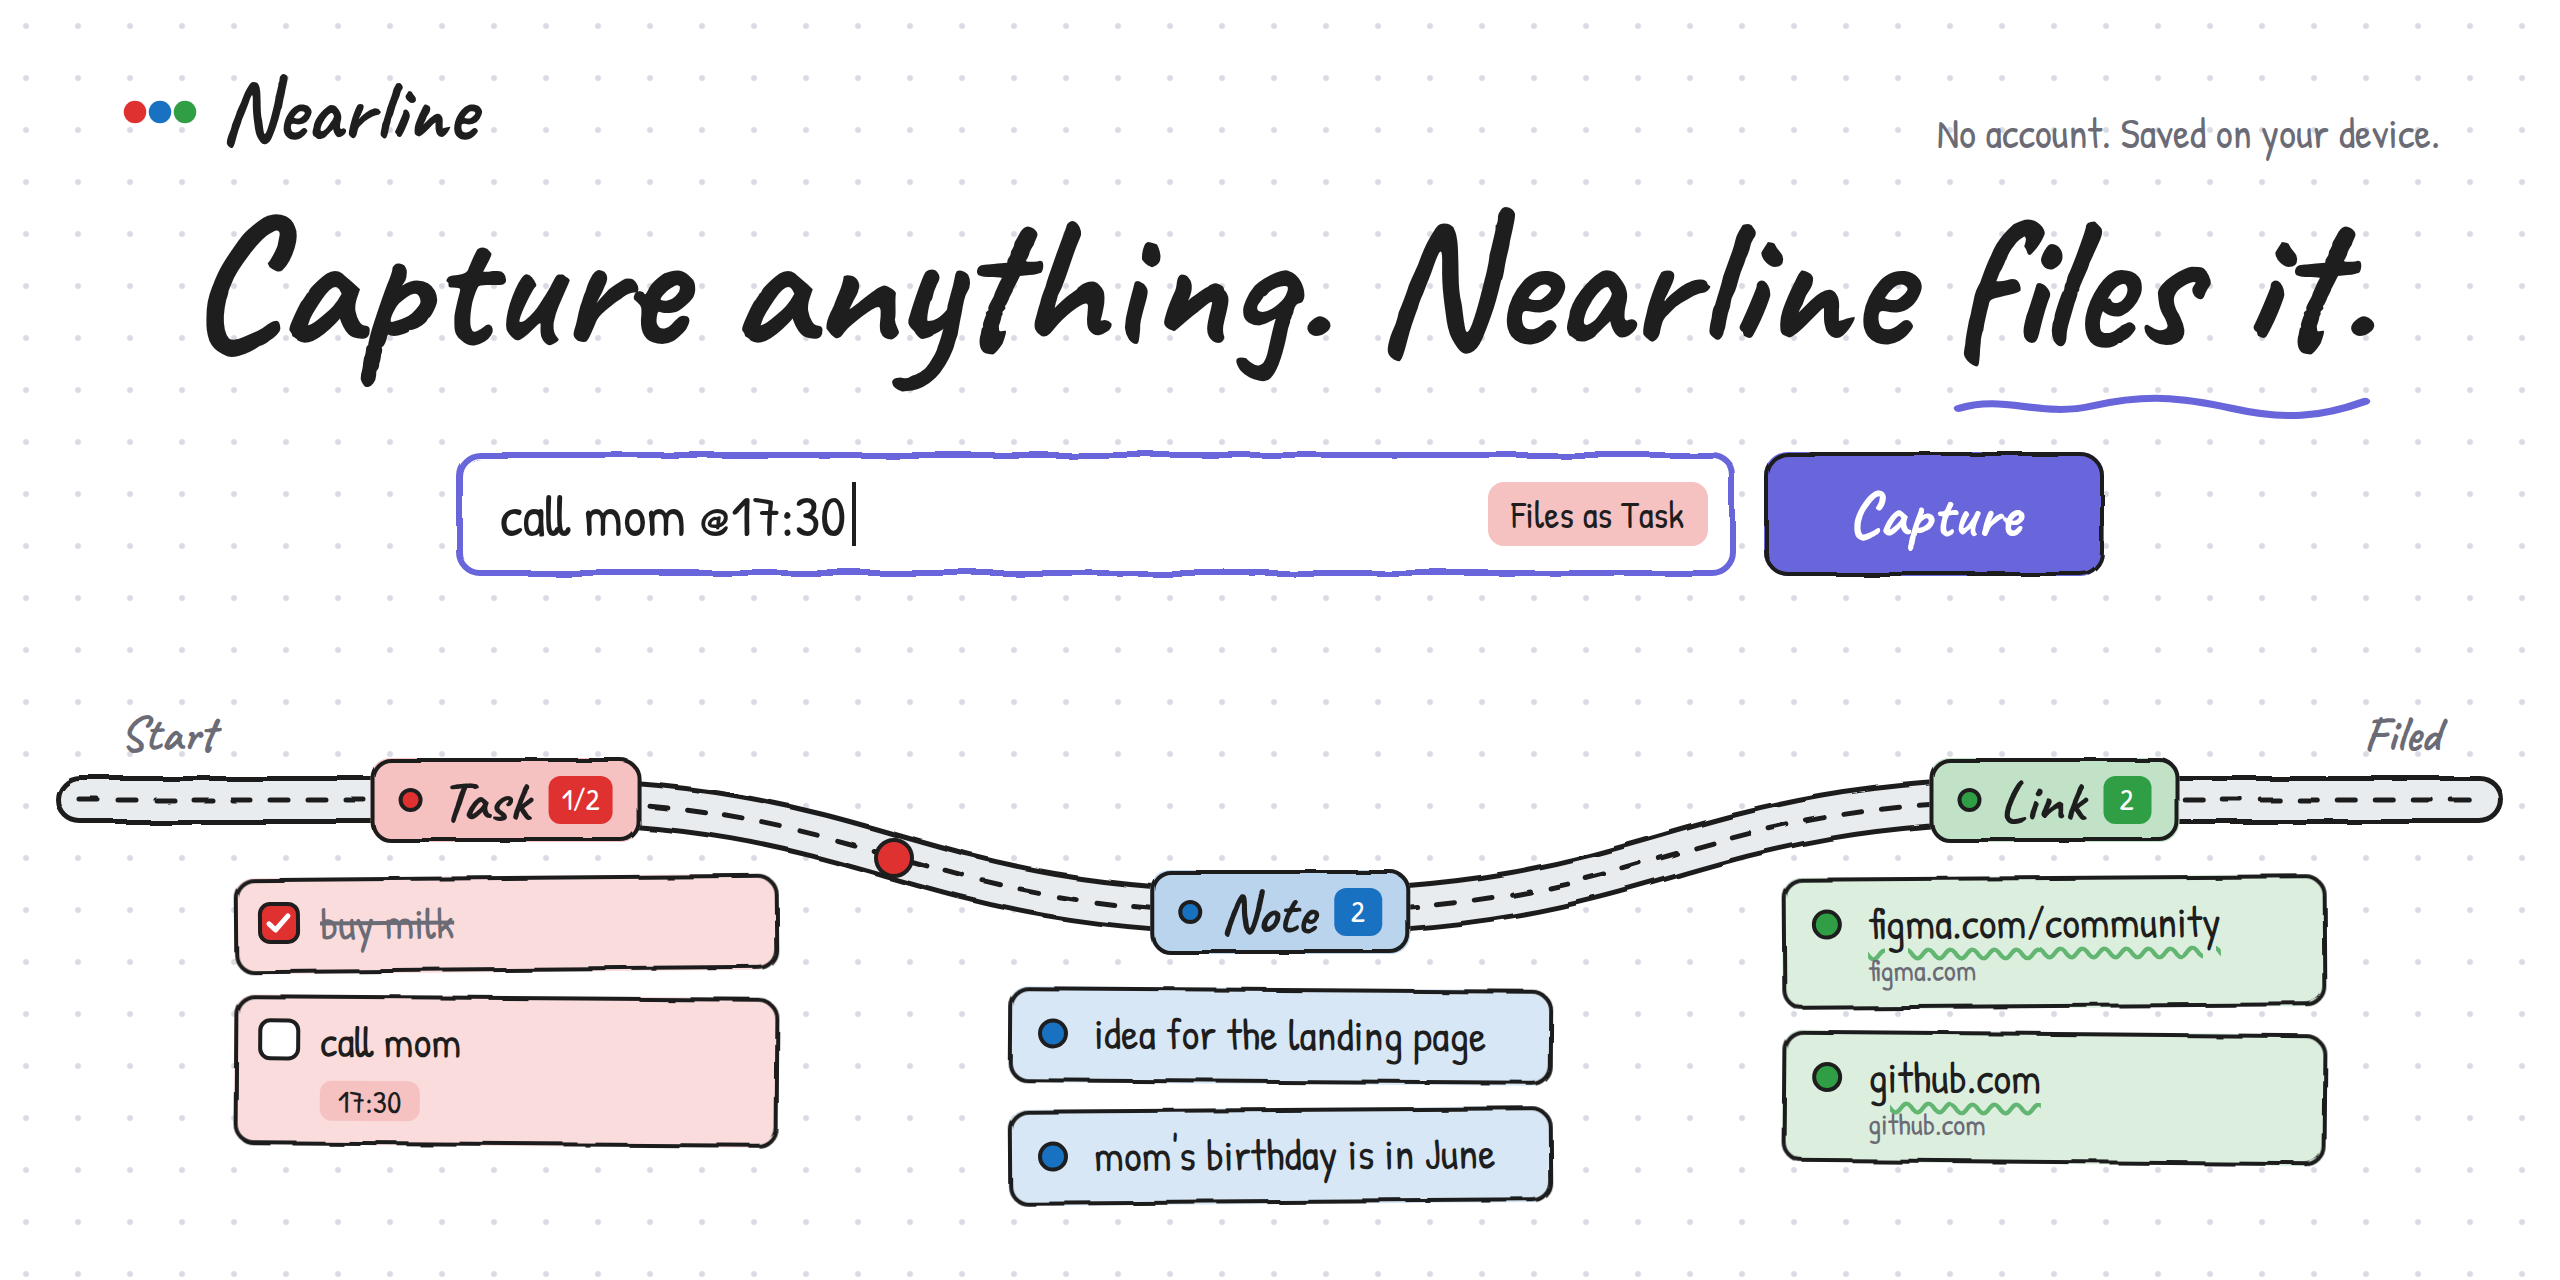
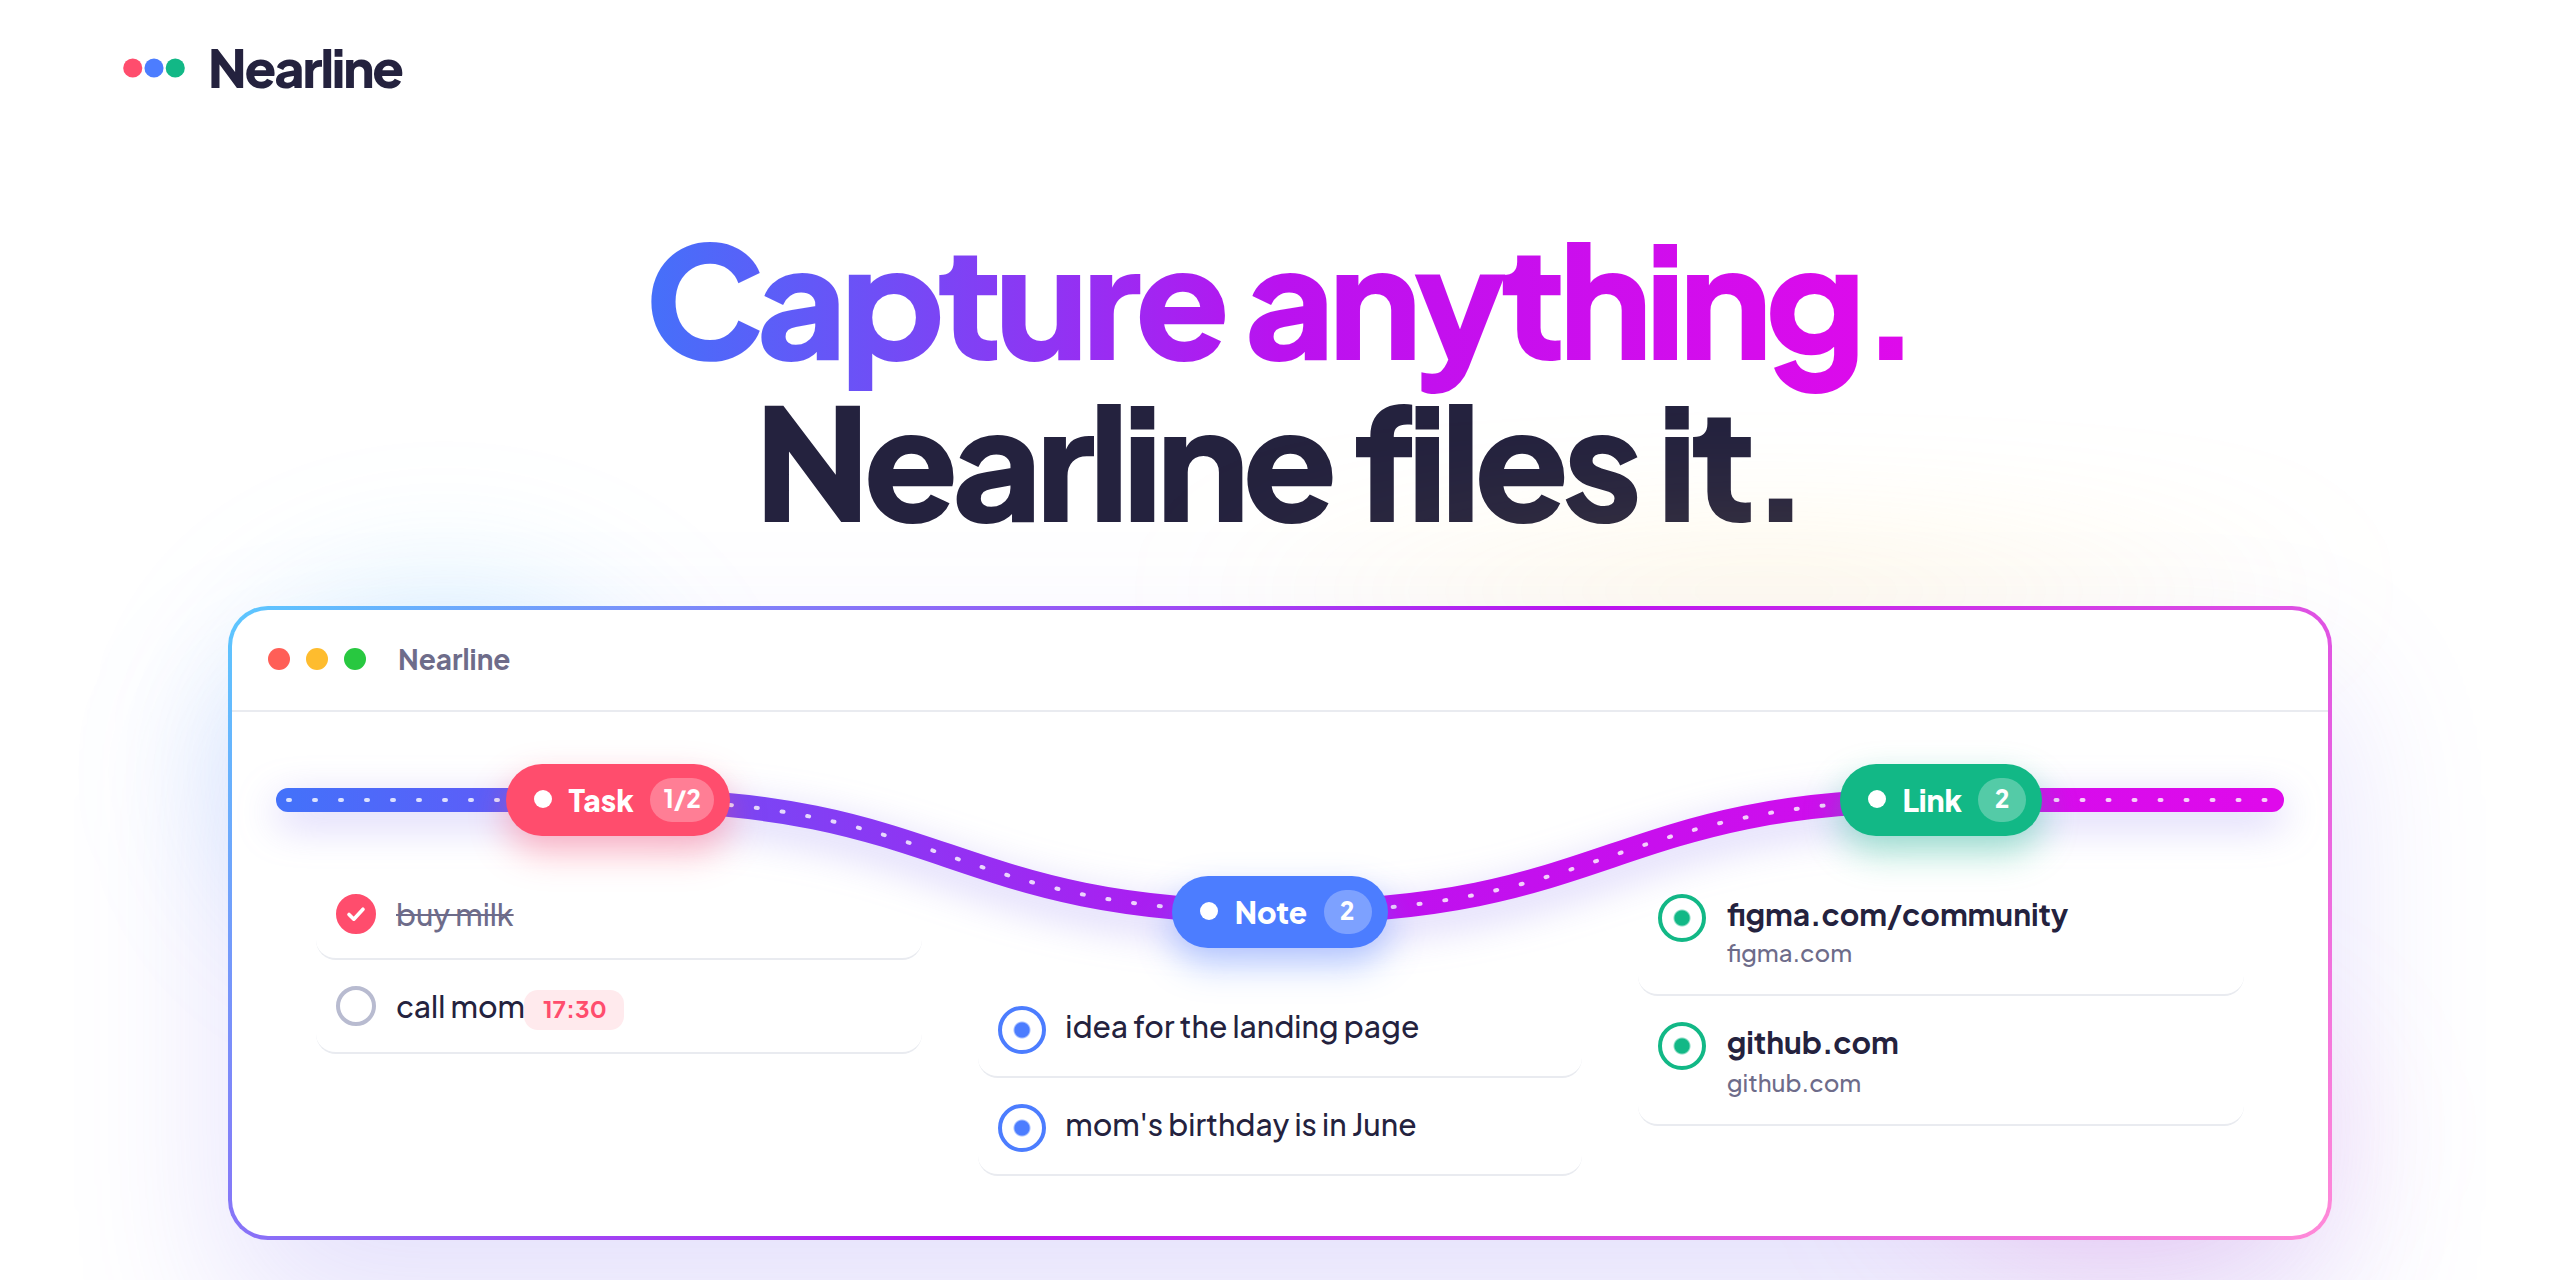
update readme file

diff --git a/README.md b/README.md
@@ -8,7 +8,7 @@
 </p>
 
 <p align="center">
-  <a href="https://YOUR-USERNAME.github.io/nearline/"><b>Live demo</b></a> ·
+  <a href="https://wissamn19.github.io/Nearline/"><b>Live demo</b></a> ·
   <a href="#quick-start">Quick start</a> ·
   <a href="#roadmap">Roadmap</a>
 </p>
@@ -58,11 +58,11 @@ You can get in and back to what you were doing in a few seconds, without touchin
 - **A roadmap, not a list.** A winding road connects the three stops, and every new entry drives along it to its stop.
 - **Private by design.** No account, no server. Everything is saved in your browser.
 - **Accessible details.** Keyboard-friendly controls, visible focus states, reduced-motion support, and a dark theme that follows your system.
-- **Hand-drawn look,** inspired by Excalidraw.
+- **A bold, colorful design** inspired by ClickUp, with light and dark themes.
 
 ## Demo
 
-**Try it:** [wissamn19.github.io/nearline](https://wissamn19.github.io/nearline/)
+**Try it:** [YOUR-USERNAME.github.io/nearline](https://YOUR-USERNAME.github.io/nearline/)
 
 <!-- Add a short screen recording here, for example:
 ![Nearline in action](docs/demo.gif)
@@ -140,8 +140,7 @@ Every entry is stored as a small object:
 nearline/
 ├── index.html      Landing page with a live demo of the sorting
 ├── app.html        The app: capture bar, roadmap, reminders
-├── style.css       Design tokens, layout, hand-drawn styling, dark theme
-├── site.css        Styles for the landing page
+├── style.css       Design tokens and styles for the landing page and the app
 ├── script.js       App logic: sorting, rendering, storage, reminders, export
 ├── landing.js      Live "try it" demo on the landing page
 ├── classifier.js   Featurizer and prediction, matching the Python one
@@ -155,13 +154,13 @@ nearline/
 
 ### Built with
 
-HTML, CSS (custom properties, grid, `color-mix`), and plain JavaScript. It uses SVG paths and filters, the Web Animations API, `localStorage`, and the Notification API. There are no frameworks, libraries or build tools.
+HTML, CSS (custom properties, grid, `color-mix`), and plain JavaScript. It uses SVG paths, the Web Animations API, `localStorage`, and the Notification API. There are no frameworks, libraries or build tools.
 
 It targets current versions of Chrome, Edge, Firefox and Safari.
 
 ## Privacy
 
-Nearline has no accounts, no analytics, and no server. Your entries are saved in your browser's `localStorage` on your device and are never sent anywhere. The only network request the page makes is for the two fonts from Google Fonts.
+Nearline has no accounts, no analytics, and no server. Your entries are saved in your browser's `localStorage` on your device and are never sent anywhere. The only network request the page makes is for the font from Google Fonts.
 
 Clearing your browser's site data for the page deletes your entries.
 
@@ -201,8 +200,8 @@ Contributions are welcome. For anything bigger than a small fix, please open an 
 
 ## Credits
 
-- Visual style inspired by [Excalidraw](https://github.com/excalidraw/excalidraw)
-- Fonts: [Caveat](https://fonts.google.com/specimen/Caveat) and [Patrick Hand](https://fonts.google.com/specimen/Patrick+Hand), both under the SIL Open Font License
+- Visual style inspired by ClickUp's website
+- Font: [Plus Jakarta Sans](https://fonts.google.com/specimen/Plus+Jakarta+Sans), under the SIL Open Font License
 
 ## License
 
